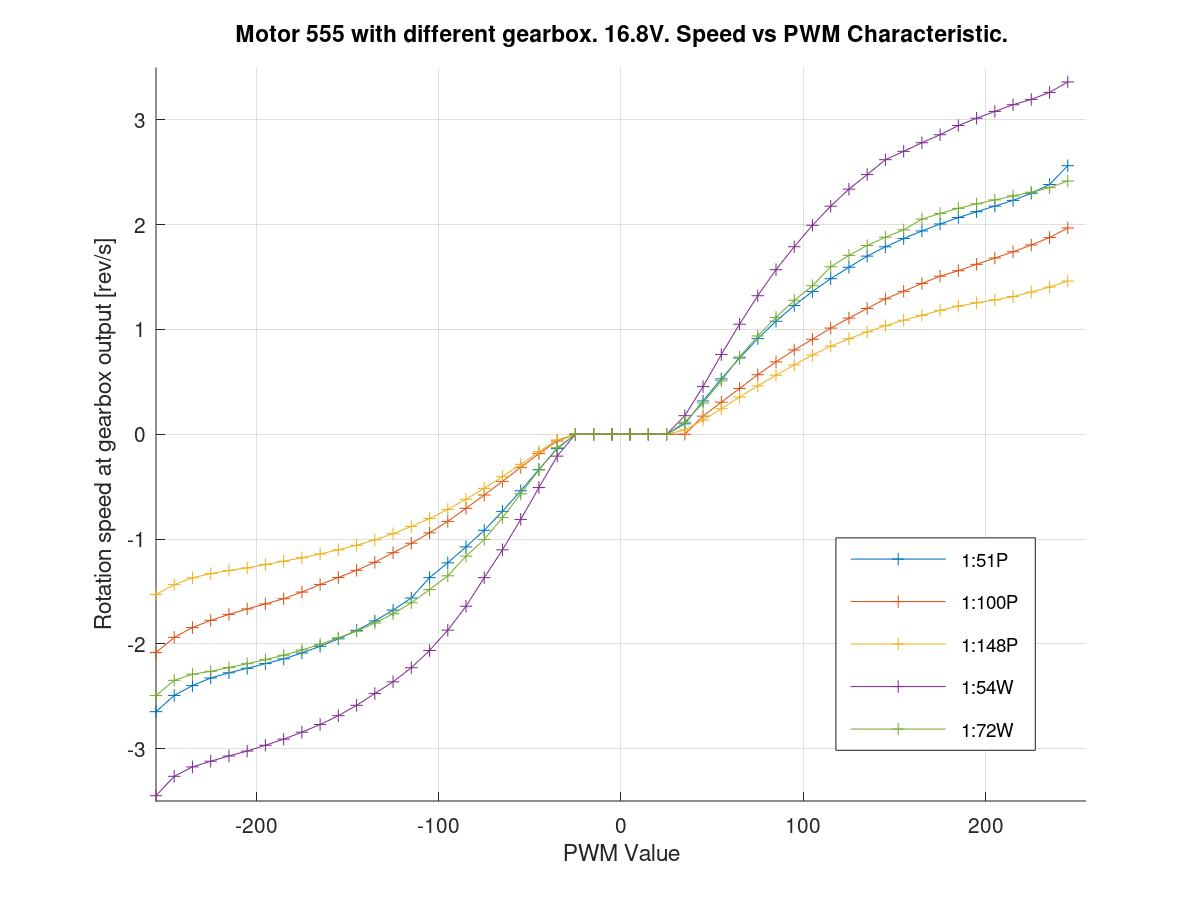
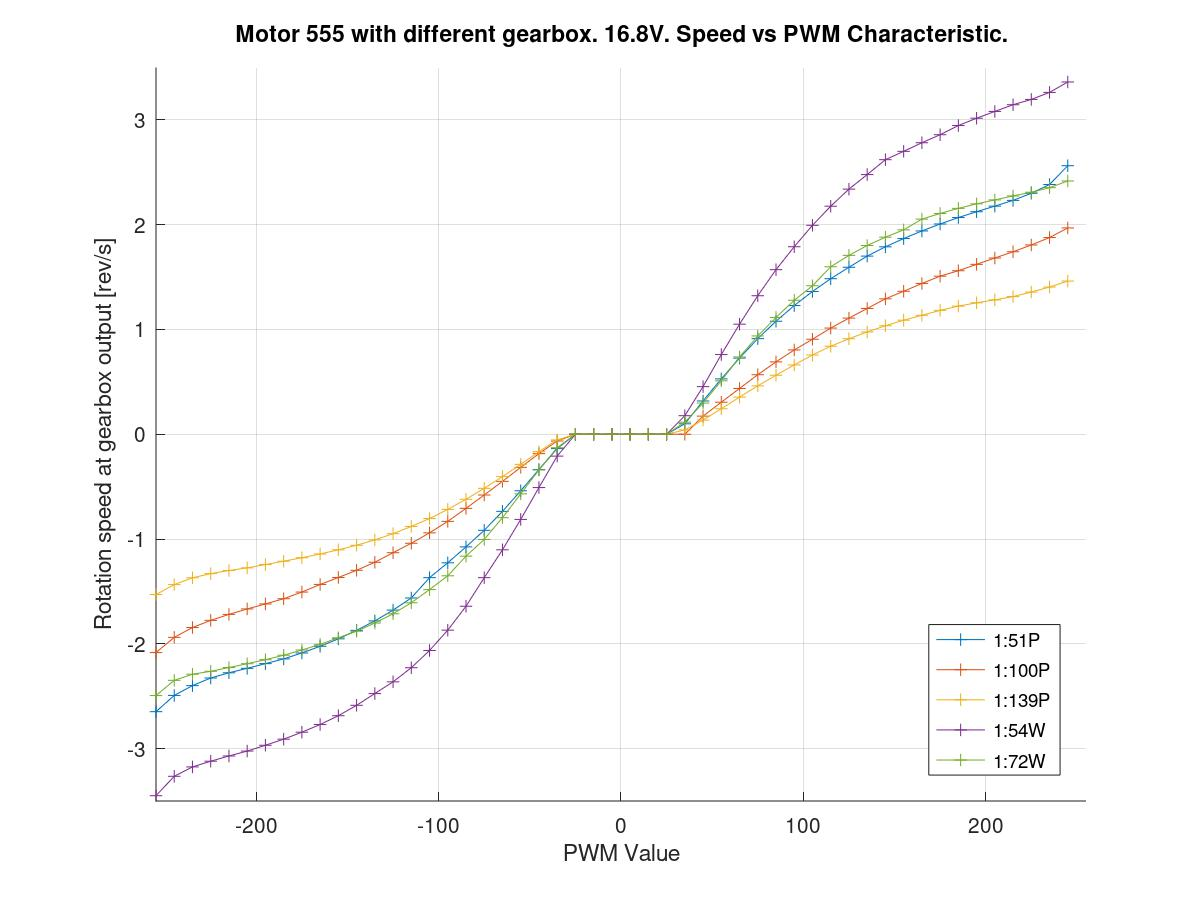
Updated readme

Changed region(s): [[0.7092, 0.5911, 0.8942, 0.8711], [0.7092, 0.6533, 0.7708, 0.6844]]

diff --git a/src_cpp/motor_control_test/Motor04c_PWM_Different_Motor_Speed/data/plotter_motor_gearbox.m b/src_cpp/motor_control_test/Motor04c_PWM_Different_Motor_Speed/data/plotter_motor_gearbox.m
@@ -15,7 +15,7 @@ results_139
 results_W54
 results_W72
 encoder_steps = 44;
-legend_labels = {"1:51P", "1:100P", "1:148P", "1:54W", "1:72W"};
+legend_labels = {"1:51P", "1:100P", "1:139P", "1:54W", "1:72W"};
 
 data1 = data_pre_process (eval("result_555_051_168"), 51 * encoder_steps, true);
 data2 = data_pre_process (eval("result_555_100_168"), 100 * encoder_steps, false);

diff --git a/src_cpp/motor_control_test/Readme.md b/src_cpp/motor_control_test/Readme.md
@@ -1,6 +1,13 @@
 # DC Motor Control Tests
 
-This series of test is part of the software development to perform **position and velocity** control for a DC motor with a **Hall effect** **Quadrature Decoder**. 
+This series of test is part of the software development to perform feedback control for **position and velocity** control for a DC motor with a **Hall effect** **Quadrature Decoder**. 
+
+This also includes development of:
+
+1. **Trapezoidal motion profile controller**  that can better handle acceleration and deceleration. 
+2. **Monitoring of jamming condition** by monitoring deviation from motion profile and stop motor power supply to avoid overheating.
+
+Various characterization experiments was performed on different motors of interest.
 
 ## Electronics setup
 
@@ -44,7 +51,17 @@ In3 In4 controls Out3 Out4
 
 ### Motor
 
-Two motors are used in the tests:
+Various motors are used in the tests. This is to better understand the capabilities of each motor and to ensure the controller software can be used for all of them.
+
+| Motor      | Gearbox        | Encoder step/rev | 12V Rated <br />Torque (Nm) | 12V Stall <br />Torque (Nm) |
+| ---------- | -------------- | ---------------- | --------------------------- | --------------------------- |
+| 42GP-775   | 1:49 Planetary | 60               | 3.0                         |                             |
+| 36GP-555   | 1:51 Planetary | 44               | 1.7                         | 3.5                         |
+| GW4058-555 | 1:54 Worm      | 44               | 3.0                         | 6.0                         |
+| GW4058-555 | 1:72 Worm      | 44               | 4.0                         | 7.0                         |
+
+
+
 
 #### **42GP-775  with 1:49 Gearbox**
 
@@ -109,15 +126,25 @@ The encoder on motor 555 has 11 pulse per rev per channel. The two channels comb
 
 Test to verify the Encoder library and the encoder on the motors are functional.
 
-1. 13V is applied directly from PSU to motor. (Just quick test)
+### Testing Setup
 
-2. 10 turns are observed (eyeballed) , and then power is cut. 
-3. Number of steps reported by the Arduino is recorded.
+**Motor Tested:** 555 1:51P , 775 1:49P
 
-| Motor | Steps per 10 revolutions | Measured steps |
-| ----- | ------------------------ | -------------- |
-| 555   | 22440                    | 22428          |
-| 775   | 29400                    | 29597          |
+**Load:** No load
+
+**Power Supply:** Bench Power Supply 13V
+
+**Measurement:** Taken from Arduino's reading of the encoder
+
+### Procedure
+
+1. 10 turns are observed (eyeballed) , and then power is cut. 
+2. Number of steps reported by the Arduino is recorded.
+
+| Motor     | Steps per 10 revolutions | Measured steps |
+| --------- | ------------------------ | -------------- |
+| 555 1:51P | 22440                    | 22428          |
+| 775 1:49P | 29400                    | 29597          |
 
 ### Conclusion
 
@@ -136,7 +163,17 @@ It is unsure in two motor scenario, if the encoder library is still operating fi
 
 This test is copied from Encoder library default example to check if Arduino is catching up with the encoder interrupt speed.
 
-This test is only performed using the 555 motor, 13V is applied directly from power supply to simulate the motor at fastest speed.
+### Testing Setup
+
+**Motor:** 555 1:51P
+**Load:** No load
+**Electronics:** Arduino micro
+**Power Supply:** Bench Power Supply 13V
+**Measurement:** Voltage measured with multimeter on Pin 12
+
+### Procedure
+
+13V is applied directly from power supply to simulate the motor at fastest speed.
 
 A voltage is measured from pin output 12 from Arduino.  If voltage drop to zero when encoder is fast, then the Arduino is not catching up.
 
@@ -168,10 +205,10 @@ Various voltage is applied from PSU to motor. These are DC voltage, not PWM cont
 
 ### Testing setup
 
-**Motor:** 42GP-775 with 1:49 gearbox (no load)
-
-**Electronics:** Arduino micro + XY160D Driver + 12V AC wall adapter capable of 2A current
-
+**Motor:** 775 1:49P
+**Load:** No load
+**Electronics:** Arduino micro + XY160D Driver
+**Power Supply:** Bench Power Supply - Various DC Voltages
 **Measurement:** Taken from Arduino's reading of the encoder
 
 ![result](results/Motor_03_VoltageSpeedRelationship/result.jpg)
@@ -185,6 +222,14 @@ DC motor voltage speed relationship is as linear as it gets.
 This test finds the best PWM frequency such that the **PWM to Speed** relationship is as linear as possible, and has a large dynamic range for fine control.
 
 Five PWM values are possible from Arduino settings standpoint, but only the 4 tested values are compatible with the motor driver's 10kHz limit.
+
+### Testing setup
+
+**Motor:** 775 1:49P
+**Load:** No load
+**Electronics:** Arduino micro + XY160D Driver
+**Power Supply:** 12V 2A Wall Adapter
+**Measurement:** Taken from Arduino's reading of the encoder
 
 ### Result
 
@@ -216,21 +261,30 @@ To observe the difference in the deadband width.
 
 To observe the maximum rpm for each motor under different voltages.
 
-### Variables
+### Testing setup
 
-Three motors:
+**Motor:** 
 
-- 36GP-555 with 1:51 gearbox (Gearbox might have been overloaded in other tests)
-- 36GP-555 with 1:100 gearbox
+- 555 + 1:51P (Gearbox might have been overloaded in other tests)
+- 555 + 1:100P
+- 555 + 1:139 P
+- 555 + 1:54 W
+- 555 +1:72 W
 - 36GP-775 with 1:49 gearbox
 
-Different Supply Voltages will be tested:
+**Load:** No load
+**Electronics:** Arduino micro + XY160D Driver
+**Power Supply:** Bench Power Supply - Various DC Voltages
 
 - 16.8V (Simulated 4 Cell - Fully Charged)
 - 14.8V (Simulated 4 Cell - Average)
 - 12.6V (Simulated 3 Cell - Fully Charged)
 - 11.1V (Simulated 3 Cell - Average)
 - LiPo Battery (4 Cell)
+
+**Measurement:** Taken from Arduino's reading of the encoder
+
+### Variables
 
 Different PWM Values and direction
 
@@ -291,6 +345,16 @@ This hints towards the synchronization test to try speed in the range of 3 to 5 
 
 This test confirms if the PWM deadband removal can remove the large deadband when the PWM values crosses from positive to negative.
 
+### Testing Setup
+
+**Motor:** 775 1:49P
+**Load:** No load
+**Electronics:** Arduino micro + XY160D Driver
+**Power Supply:** 12V 2A Wall adapter
+**Measurement:** Taken from Arduino's reading of the encoder
+
+## Procedure
+
 PWM 3921.16 Hz is used for the test.
 
 The implementation of the deadband removal avoids very low PWM being applied to motor which are certainly not doing anything.
@@ -343,15 +407,18 @@ This is not a test but a base script to verify <PID_v1.h> library.
 
 The PID is set to a low kp gain to simplify things, the system therefore takes a while to settle. The goal here is not to tune the PID but to verify that the PID can maintain different speed at a reasonable precision.
 
-The PID controller was programmed to maintain different speed. From -1.4
+### Testing Setup
 
-Settling Time before measurement: 2s
+**Motor:** 775 1:49P
+**Load:** No load
+**Electronics:** Arduino micro + XY160D Driver
+**Power Supply:** 12V 2A Wall adapter
+**Measurement:** Taken from Arduino's reading of the encoder
 
+The PID controller was programmed to maintain different speed. 
+Settling Time before speed measurement: 2s
 Number of samples: 40
-
 Sampling Interval 0.1s
-
- Which Motor Used ? 
 
 ### Result
 
@@ -380,10 +447,10 @@ A manual tuning is used to find a good error response.
 
 ### Testing setup
 
-**Motor:** 42GP-775 with 1:49 gearbox (no load)
-
-**Electronics:** Arduino micro + XY160D Driver + 12V AC wall adapter capable of 2A current
-
+**Motor:** 42GP-775 with 1:49 gearbox
+**Load:** No load
+**Electronics:** Arduino micro + XY160D Driver
+**Power Supply:** 12V 2A Wall adapter
 **Measurement:** Taken from Arduino's reading of the encoder
 
 ### Tuning process
@@ -495,11 +562,9 @@ The **PID controller** from previous experiment was use with values:
 ### Testing setup
 
 **Motor:** 42GP-555 with 1:51 gearbox (2244 step/rev)
-
 **Load:** No load
-
-**Electronics:** Arduino micro + XY160D Driver + 12.6V (8A Max)
-
+**Electronics:** Arduino micro + XY160D Driver 
+**Power Supply:** Bench Power Supply 12.6V (8A Max)
 **Measurement:** Taken from Arduino's reading of the encoder
 
 **Previous Test have established the maximum speed**:
@@ -594,7 +659,9 @@ An extra test is performed to test an artificial power clamp. The output of the 
 
 ### Caution
 
-The current method of motor power control is not a true current limiting control to avoid motor burnout.  
+The current method of motor power control is not a true current limiting control to avoid motor overheat.  
+
+In the scenario where the motor is continuously operating in a high current state to overcome friction, the motor might still overheat. 
 
 
 
@@ -649,3 +716,6 @@ The driver can handle two motors but there are only two interrupts available for
 
 One trapezoidal motion profile generator is used and two PID Controllers are used for each motor.
 
+### Result
+
+To be written, but the error for the two motors are really low in initial test.
